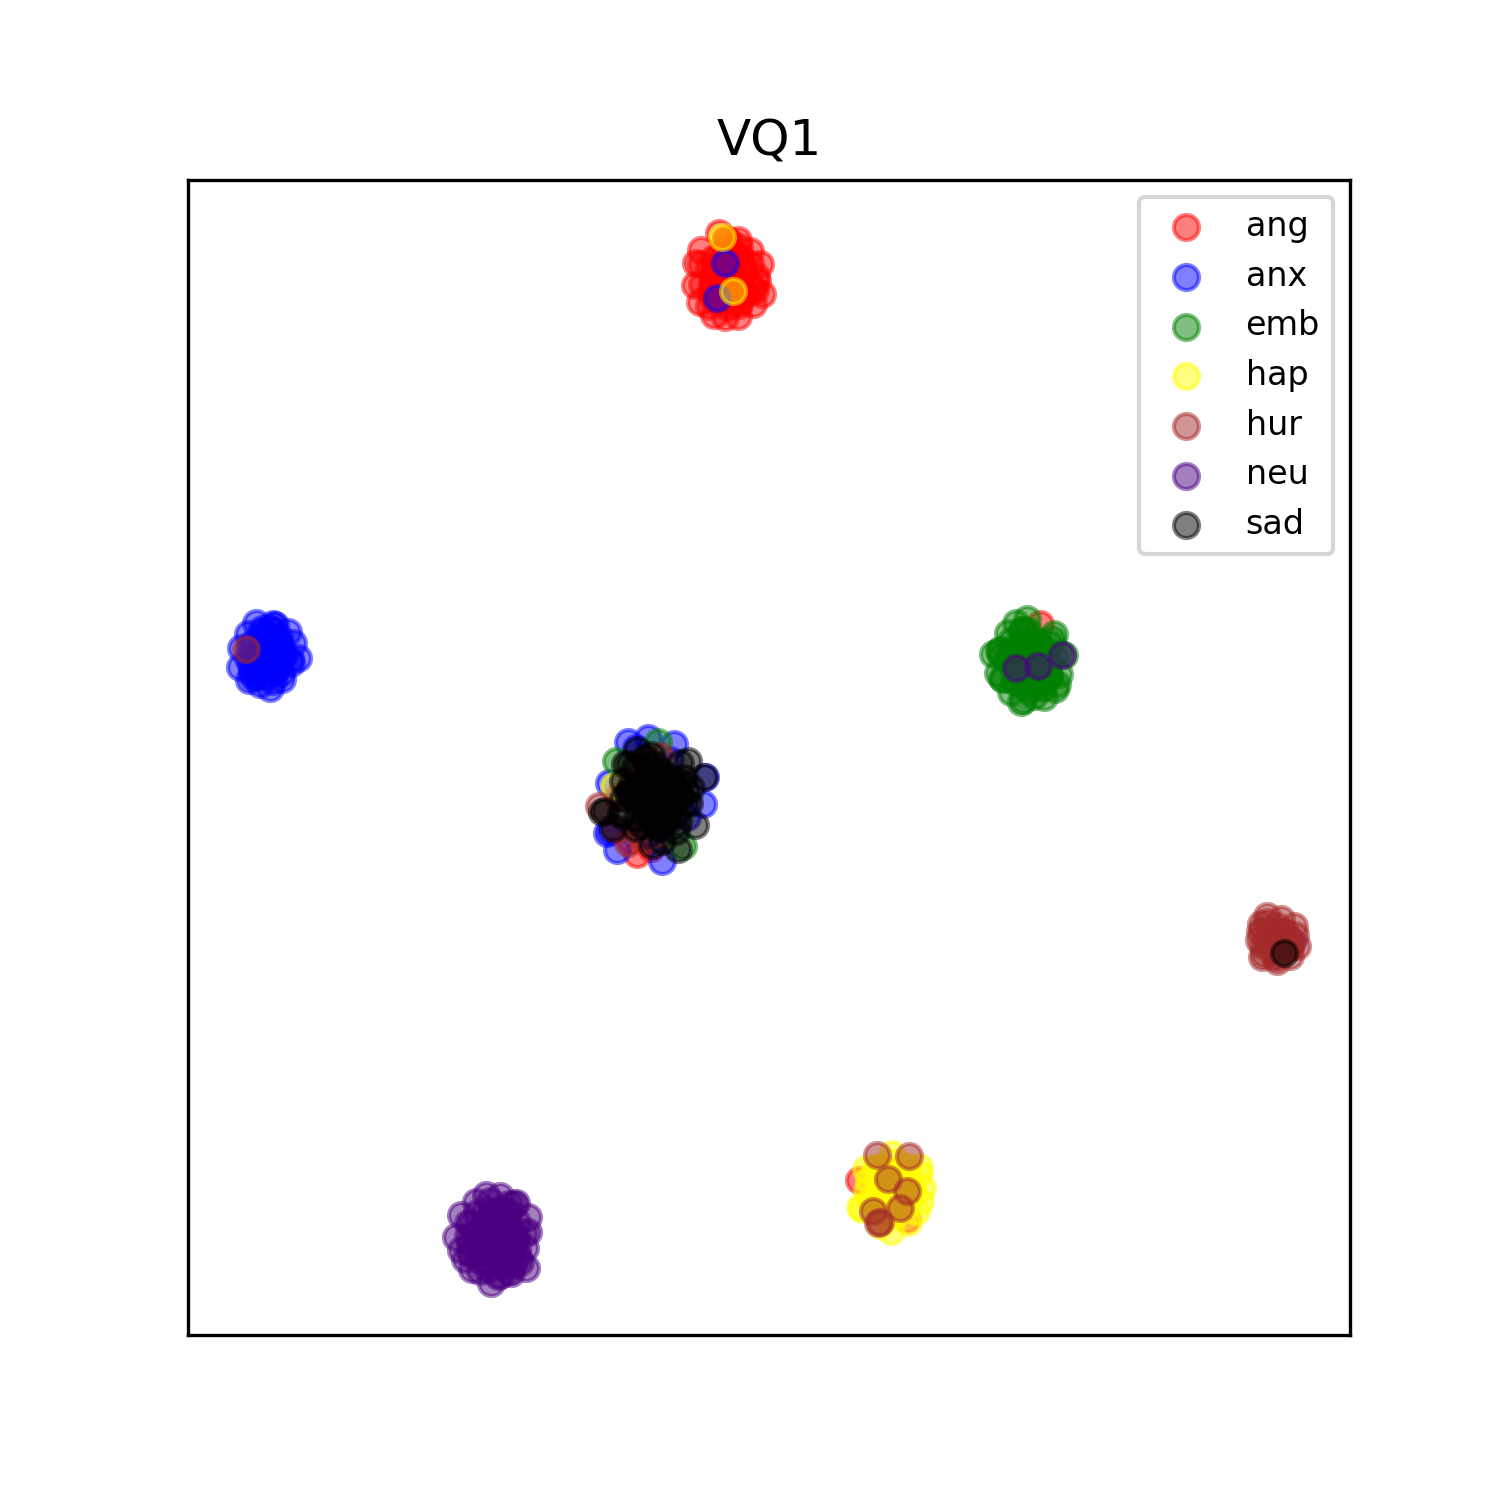
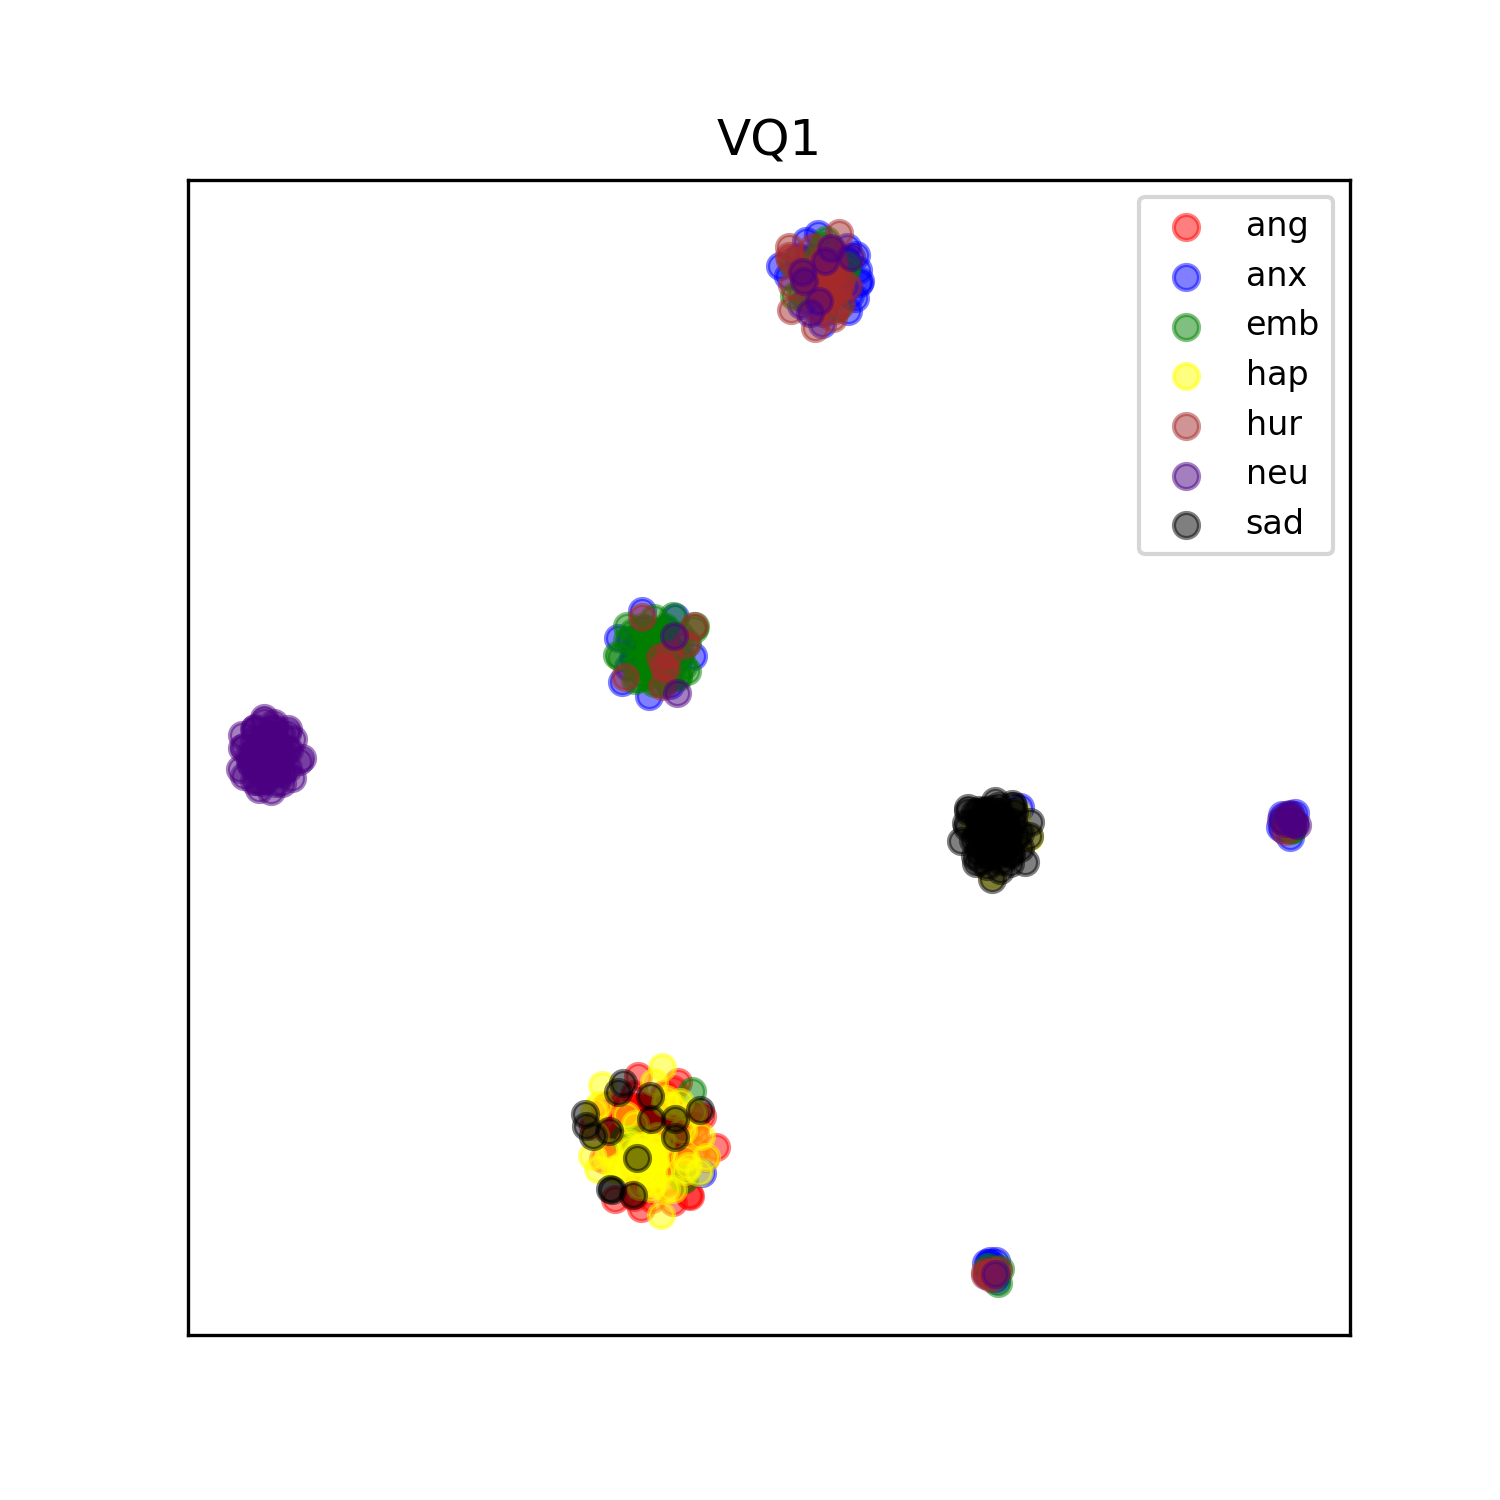
debug

diff --git a/visualize.py b/visualize.py
@@ -67,8 +67,8 @@ if __name__ == "__main__":
         
 
         # style 추출
-        ref_embs, cls_loss = model.ref_enc(mel, emotion) #, pitch_mel, energy_mel)
-        style, _, _, codebooks = model.style_extractor(ref_embs, cls_loss)
+        ref_embs = model.ref_enc(mel, emotion) #, pitch_mel, energy_mel)
+        style, _, _, codebooks = model.style_extractor(ref_embs)
 
         styles.append(style.cpu().data[:, :])
 
